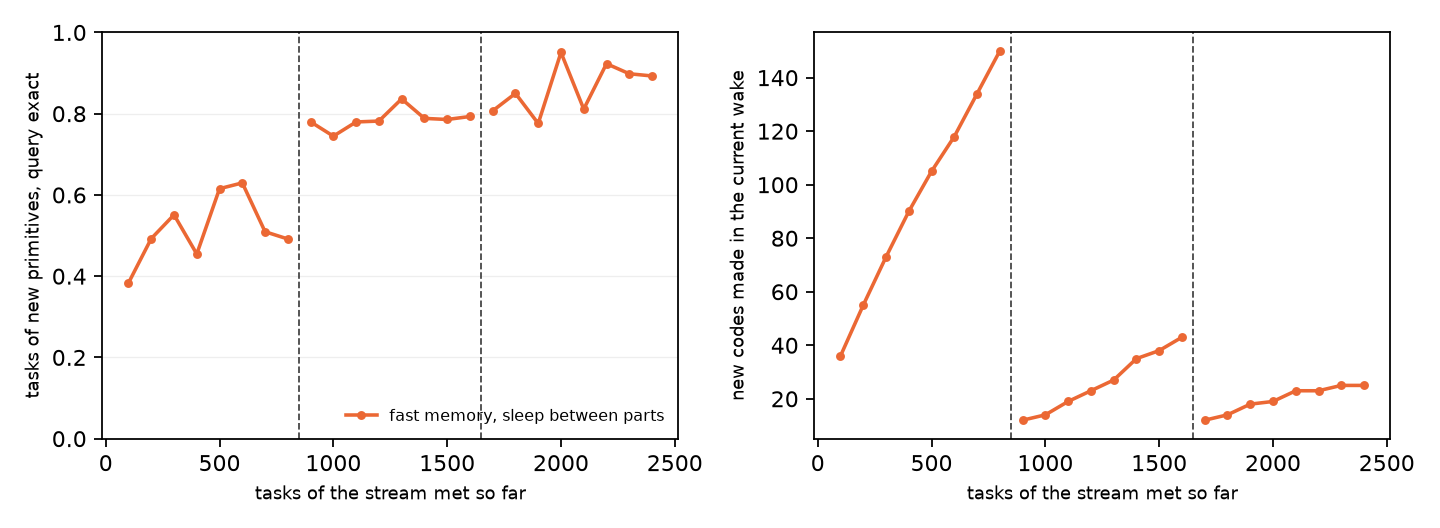
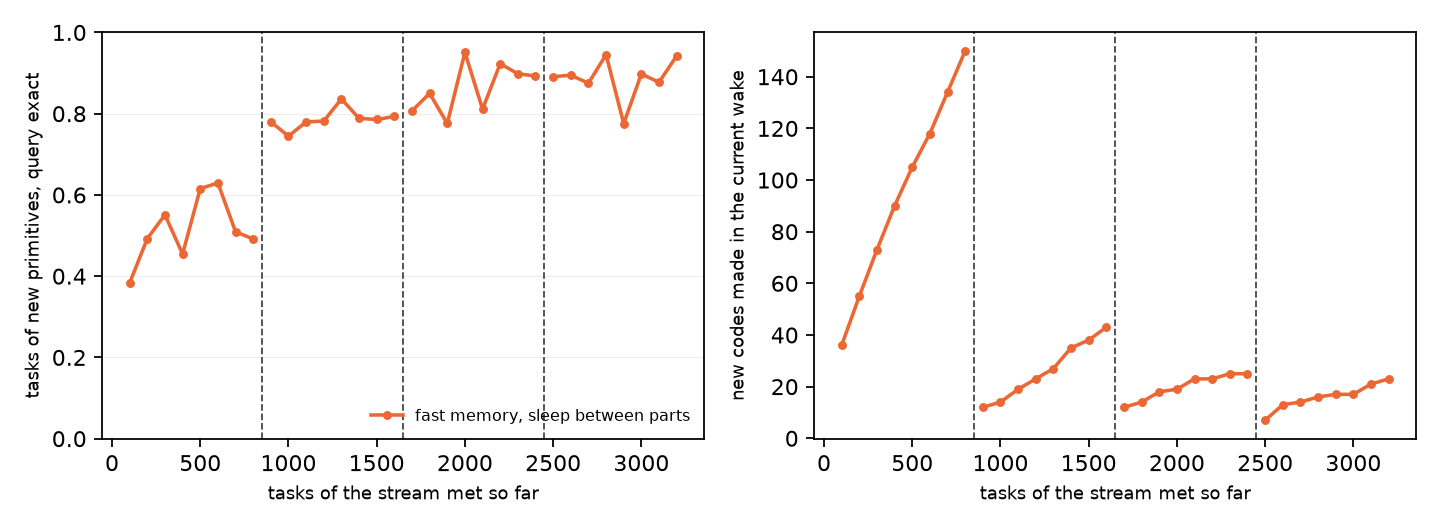
Four rounds of waking and sleeping, unit-length diagnostic, large-world rounds set up, report and handoff

diff --git a/scripts/babytheorist/make_configs.py b/scripts/babytheorist/make_configs.py
@@ -903,6 +903,24 @@ def main() -> None:
         config["evals"].append({"type": "codebook_snapshot", "name": "snapshot", "every": 100, "split": "lv1", "max_tasks": 1024, "max_samples": 4000})
         config["evals"].append({"type": "codebook_snapshot", "name": "snapshot_usual", "every": 500, "split": "usual", "max_tasks": 1024, "max_samples": 4000})
         configs[f"sleep_memory_m24_to_m52_s{seed}"] = config
+    # the rounds of waking and sleeping in the sibling world of larger objects (2026-11-27 19:40): the same 24 primitives, so no
+    # new code row is needed. The frozen price model of seed 43 meets 400 single-primitive tasks of the large-object eval (it holds 1,088)
+    # file with the same online fast memory; the tasks none of its codes reproduced go into the sleep (2,000 steps of hard
+    # EM, half of each batch replaying the usual world), scored on the large-object eval file without the stream's rows and
+    # on the usual world. A second round continues from the first on the memory of both wakes (1,000 steps). Earlier, 256
+    # random large tasks with replay gave 72% from 59% (adapt_n256_replay_m24_large_s43).
+    for tag, steps, start, memory, unstreamed in (("sleep", 2000, "runs/onestep_s_m24_hardem_pairs2_price_s43/ckpt/step-024000.pt", "memory_large_s43_rep", "many_p24_large_unstreamed"),
+                                                   ("sleep2", 1000, "runs/sleep_large_m24_s43/ckpt/step-002000.pt", "memory_large_round2_s43_rep", "many_p24_large_unstreamed800")):
+        config = one_step(43, steps=steps, codes=48, changes={**hard_em, "train.init_from": start, "train.ckpt_every": steps}, data=suite("many_p24"))
+        config["data"]["type"] = "babytheorist_episodes"
+        config["data"]["train"] = [f"{DATA}/{memory}/lv1_train.h5", f"{DATA}/many_p24_pairs2/lv1_train.h5"]
+        config["data"]["evals"] = {"lv1": f"{DATA}/{unstreamed}/lv1_eval.h5", "usual": f"{DATA}/many_p24/lv1_eval.h5"}
+        config["evals"][0]["tables"] = True
+        config["evals"][0]["every"] = 500
+        config["evals"][1]["every"] = steps
+        config["evals"].append({"type": "codebook_snapshot", "name": "snapshot", "every": 100, "split": "lv1", "max_tasks": 1024, "max_samples": 4000})
+        config["evals"].append({"type": "codebook_snapshot", "name": "snapshot_usual", "every": 500, "split": "usual", "max_tasks": 1024, "max_samples": 4000})
+        configs[f"{tag}_large_m24_s43"] = config
     # the control for what the fast memory chose (2026-11-27 17:15): the same sleep from fresh rows on 435 tasks drawn at
     # random from the 52-primitive two-pair train file (seed 0, repeated to 40,000 rows), instead of the 435 tasks the
     # memory kept because no code of the frozen model reproduced them.

diff --git a/scripts/babytheorist/grow_checkpoint.py b/scripts/babytheorist/grow_checkpoint.py
@@ -32,8 +32,9 @@ def sphere_refit(model, state: dict, saved: dict, chosen: list[int], steps: int)
     import h5py
     import torch.nn.functional as F
 
+    device = torch.device("cuda" if torch.cuda.is_available() else "cpu")
     model.load_state_dict(state)
-    model.eval()
+    model.to(device).eval()
     for p in model.parameters():
         p.requires_grad_(False)
     with h5py.File(saved["eval"], "r") as f:
@@ -41,10 +42,10 @@ def sphere_refit(model, state: dict, saved: dict, chosen: list[int], steps: int)
     out, kept, total = [], 0, 0
     for j in chosen:
         rows = saved["memory_rows"][j]
-        x, y = inputs[rows][:, :2].flatten(0, 1), outputs[rows][:, :2].flatten(0, 1)
+        x, y = inputs[rows][:, :2].flatten(0, 1).to(device), outputs[rows][:, :2].flatten(0, 1).to(device)
         with torch.no_grad():
             state_x = model.encoder(x)
-        v = saved["vectors"][j].clone().requires_grad_(True)
+        v = saved["vectors"][j].clone().to(device).requires_grad_(True)
         opt = torch.optim.Adam([v], lr=0.05)
         for _ in range(steps):
             opt.zero_grad()
@@ -55,7 +56,7 @@ def sphere_refit(model, state: dict, saved: dict, chosen: list[int], steps: int)
         with torch.no_grad():
             done = model.decoder(model.executor(state_x, unit.expand(len(x), -1)[:, None])).argmax(-1).eq(y).flatten(1).all(1).view(-1, 2).all(1)
         kept, total = kept + int(done.sum()), total + len(rows)
-        out.append(unit)
+        out.append(unit.cpu())
     print(f"unit-vector refit: {kept} of {total} memory tasks reproduced by the placed codes")
     return torch.stack(out)
 

diff --git a/docs/reports/2026-11-27-autoresearch.md b/docs/reports/2026-11-27-autoresearch.md
@@ -1,4 +1,4 @@
-# 굳는 code를 푸는 법과 아는 것 위에 쌓기: 11월 27일의 실험
+# 아는 것 위에 쌓기: 빠른 기억과 잠, 넓힌 학습 state, 그리고 굳는 code. 11월 27일의 실험
 
 2026-11-27 Claude Code가 썼다. 자율 연구 중에 결과가 나오는 대로 고친다. 숫자는 모두 직접 돌려 잰 것이고, 근거 파일과 비교 조건은 `docs/ablations.md`에 있다.
 
@@ -8,7 +8,9 @@
 
 다른 하나는 사용자가 던진 방향의 질문이다. 무작위로 초기화한 모델이 라벨 없이 code를 세우는 문제에 매달릴 필요가 있느냐는 것이다. 사람도 빈 상태에서 배우지 않는다. 아는 것은 넣어 주고, 작은 환경에서는 정답을 보여 준 뒤, 그보다 크거나 비슷한 환경에서 빨리 배우는지를 보이면 된다. 연구가 보이려는 성질이 아는 것이 많아질수록 새것을 더 싸게 배우는 것이니, 이쪽이 그 성질을 더 직접 잰다.
 
-결과를 먼저 말하면, 첫 질문은 절반쯤 풀렸다. 학습 초반에 과하게 쓰인 code에 가격을 붙여 과제를 여러 code로 퍼뜨리고 나중에 가격을 거두면, 굳던 seed 43과 44가 갈라졌다. 하지만 seed 45와 46에서는 오히려 덜 갈라졌다. 가격이 executor가 넷을 구별하기 전에 사라진 탓으로 보고, 가격을 더 오래 두는 형태를 시험하고 있다. 둘째 질문에 대해서는 두 가지 작은 판을 만들었다. 24개 환경 모델을 52개 환경으로 키우는 것과, 같은 primitive를 큰 물체에 적용한 비슷한 세계로 옮기는 것이다. 둘 다 아는 것에서 출발한 모델이 처음부터 배우는 모델보다 훨씬 빨랐다.
+결과를 먼저 말하면, 첫 질문은 절반쯤 풀렸다. 학습 초반에 과하게 쓰인 code에 가격을 붙여 과제를 여러 code로 퍼뜨리고 나중에 가격을 거두면, 굳던 seed 43과 44가 갈라졌고 52개 환경에서는 세 seed가 모두 풀렸다. 하지만 24개 환경의 seed 45와 46에서는 오히려 덜 갈라졌다. 가격을 재현 적합도로 거두는 형태가 이 두 seed를 올렸지만 아직 다 풀지는 못했다.
+
+둘째 질문에서 더 많은 것이 나왔다. 세 가지다. 학습 때 보는 state를 넓히면 executor가 학습 분포 밖에서도 같은 변환을 실행하게 되고, 긴 program과 큰 물체 세계로의 전이가 함께 오른다. 24개 환경 모델을 52개 환경으로 키우면 초반은 빠르지만 끝 성능과 처음 보는 primitive로의 일반화는 처음부터 배운 쪽이 낫다. 그리고 이날의 중심 결과로, 얼린 모델에 빠른 기억을 붙이고 잠을 번갈아 넣으면 새 과제가 바퀴마다 더 싸게 풀린다. 깨어 있는 동안에는 가중치를 바꾸지 않고 새 code를 기억에 만들어 쓰고, 자기 code로 풀리지 않은 과제를 모은다. 잠에서 그 과제로 가중치를 고친다. 새 primitive 과제의 정답률이 자기 전 51%, 한 번 잔 뒤 79%, 두 번 잔 뒤 86%이고, 깨어 있는 동안 새로 만들어야 하는 code는 150개, 43개, 25개로 준다. 원래 알던 것은 내내 99% 이상이다.
 
 ## 2. code는 왜 굳는가
 
@@ -228,7 +230,7 @@ executor가 함수에 가까워지자 긴 program의 상한도 올랐다. 24개 
 
 이 결과에서 두 가지를 읽는다. 하나는 빠른 기억과 이어 쓰기만으로, 라벨 없이, 가중치를 바꾸지 않고, 계산할 수 있는 새 개념을 예시 몇 개로 붙일 수 있다는 것이다. 6절의 큰 물체 세계에서는 가중치를 고쳐 적응하면 과제 256개로도 오히려 나빠졌다. 세계가 달라 숫자를 직접 견줄 수는 없지만, 적은 예시에서 가중치를 건드리지 않는 쪽이 안전하다는 점은 같다. 다른 하나는 이 방식의 한계가 executor가 이미 할 줄 아는 계산에 있다는 것이다. 새 계산이 필요한 개념에 대해 빠른 기억은 실패한 code를 쌓을 뿐이다. 그 과제들은 기억에 남아 있으므로, 잠에서 executor를 바꾸는 재료가 될 수 있다.
 
-맞춘 새 code의 길이도 보았다. codebook은 code를 길이 1로 정규화해 읽는데, 빠른 기억의 code는 길이를 묶지 않고 맞춰서 1.1에서 4.1, 평균 2.1이었다. 이 벡터를 길이 1로 정규화하면 기억 과제 327개 가운데 2개만 재현한다. 정규화 전에는 325개다. 길이 1로 묶은 채 원래 방향에서 다시 맞추면 156개다. 빠른 기억은 학습 때 쓰지 않은 길이를 표현력으로 쓰고 있었고, codebook에 그대로 옮길 수는 없다.
+맞춘 새 code의 길이도 보았다. codebook은 code를 길이 1로 정규화해 읽는데, 빠른 기억의 code는 길이를 묶지 않고 맞춰서 1.1에서 4.1, 평균 2.1이었다. 이 벡터를 길이 1로 정규화하면 기억 과제 327개 가운데 2개만 재현한다. 정규화 전에는 325개다. 길이 1로 묶은 채 원래 방향에서 다시 맞추면 156개다. 빠른 기억은 학습 때 쓰지 않은 길이를 표현력으로 쓰고 있었고, codebook에 그대로 옮길 수는 없다. 길이가 기억을 외우는 데만 쓰인 것인지 보려고 8.2절의 진단을 길이 1로 묶어 다시 돌렸다. 새 primitive 평균이 예시 1, 2, 4, 16, 64개에 15, 23, 33, 44, 45%로, 묶지 않았을 때의 15, 33, 47, 56, 56%보다 10점 넘게 낮다. 길이는 처음 보는 과제에서도 통하는 자유도다. executor는 학습 때 길이 1인 code만 받았는데도 길이가 다른 code에서 쓸모 있는 변환을 낸다. codebook이 code의 길이를 버리는 것이 손해일 수 있다는 뜻이고, 따로 확인할 물음이다.
 
 ### 8.4 잠에서 가중치로 옮기기
 
@@ -255,7 +257,7 @@ executor가 함수에 가까워지자 긴 program의 상한도 올랐다. 24개 
 
 빠른 기억과 잠을 이으면 한 바퀴가 된다. 깨어 있는 동안 얼린 모델이 빠른 기억으로 과제를 받고, 자기 code로 풀리지 않은 과제를 기억에 모은다. 잠에서 그 기억으로 가중치를 고친다. 다시 깨면 고친 모델을 얼리고 같은 방식으로 다음 과제를 받는다. 연구가 보이려는 성질, 곧 아는 것이 많아질수록 새 과제를 더 싸게 배운다는 것을 이 바퀴로 직접 잴 수 있다. 다시 깬 모델이 같은 종류의 과제를 더 잘 풀고, 새 code를 덜 만들어야 한다.
 
-이것을 세 번 이어서 돌렸다. 흐름은 52개 환경의 한 단계 과제를 정한 순서로 800개씩 끊은 것이다. 첫 번째 깨어 있는 동안은 24개 환경 모델이 과제 1에서 800을 받는다. 첫 잠은 8.4절의 무작위 줄 출발 잠이다. 두 번째는 그 모델이 과제 801에서 1,600을 받고, 둘째 잠은 두 번의 기억을 합친 569개로 1,000스텝 이어 잔다. 세 번째는 과제 1,601에서 2,400을 받는다. 구간마다 과제는 다르지만 같은 primitive들에서 같은 방식으로 뽑힌 과제다.
+이것을 네 번 이어서 돌렸다. 흐름은 52개 환경의 한 단계 과제를 정한 순서로 800개씩 끊은 것이다. 첫 번째 깨어 있는 동안은 24개 환경 모델이 과제 1에서 800을 받는다. 첫 잠은 8.4절의 무작위 줄 출발 잠이다. 두 번째는 그 모델이 과제 801에서 1,600을 받고, 둘째 잠은 두 번의 기억을 합친 569개로 1,000스텝 이어 잔다. 세 번째는 과제 1,601에서 2,400을 받는다. 셋째 잠과 네 번째 구간도 같은 방식이다. 구간마다 과제는 다르지만 같은 primitive들에서 같은 방식으로 뽑힌 과제다.
 
 ![깨기와 잠을 번갈아 할 때, 새 primitive 과제의 정답률과 새로 만든 code 수](2026-11-27-memory/cycle.png)
 
@@ -264,8 +266,9 @@ executor가 함수에 가까워지자 긴 program의 상한도 올랐다. 24개 
 | 첫 번째, 자기 전 | 51% | 71% | 19% | 99% | 150개 | 3% |
 | 두 번째, 한 번 잔 뒤 | 79% | 86% | 60% | 100% | 43개 | 69% |
 | 세 번째, 두 번 잔 뒤 | 86% | 90% | 76% | 99.7% | 25개 | 75% |
+| 네 번째, 세 번 잔 뒤 | 89% | 91% | 85% | 100% | 23개 | 79% |
 
-바퀴가 돌 때마다 새 과제가 더 잘 풀리고, 빠른 기억이 새로 할당해야 하는 code가 줄어든다. 가장 크게 오르는 것은 새 계산이 필요한 개념이다. 깨어 있는 동안에는 풀지 못하고 기억에 쌓이기만 하던 과제가 잠에서 executor를 바꾸고, 다음에 깨면 자기 code로 풀린다. 둘째 깨어 있는 동안 기억에 더해진 과제 134개는 대부분 아직 덜 배운 개념의 과제였고, 둘째 잠 뒤에 왼쪽 거울상 붙이기는 29%에서 87%, 두 배 확대는 43%에서 82%가 됐다. 기억이 무엇을 담을지를 검증 실패로 정하니, 잠은 모델이 아직 못 하는 것에 학습을 모은다. 아는 24개는 세 번 모두 99% 이상으로, 재생이 원래 지식을 지켰다.
+바퀴가 돌 때마다 새 과제가 더 잘 풀리고, 빠른 기억이 새로 할당해야 하는 code가 줄어든다. 오르는 폭은 바퀴마다 줄어 28점, 7점, 3점이다. 처음에 크게 오르고 완만해지는 모양이다. 가장 크게 오르는 것은 새 계산이 필요한 개념이다. 깨어 있는 동안에는 풀지 못하고 기억에 쌓이기만 하던 과제가 잠에서 executor를 바꾸고, 다음에 깨면 자기 code로 풀린다. 둘째 깨어 있는 동안 기억에 더해진 과제 134개는 대부분 아직 덜 배운 개념의 과제였고, 둘째 잠 뒤에 왼쪽 거울상 붙이기는 29%에서 87%, 두 배 확대는 43%에서 82%가 됐다. 기억이 무엇을 담을지를 검증 실패로 정하니, 잠은 모델이 아직 못 하는 것에 학습을 모은다. 아는 24개는 네 번 모두 99% 이상으로, 재생이 원래 지식을 지켰다.
 
 잠을 잔 뒤에도 빠른 기억은 값을 더한다. 한 번 잔 모델이 탐색 없이 고른 code로는 계산할 수 있는 새것을 81% 맞히는데, 깨어서 support로 검증하고 빠른 기억으로 보충하면 86%다.
 
@@ -273,7 +276,9 @@ executor가 함수에 가까워지자 긴 program의 상한도 올랐다. 24개 
 
 기억이 고르는 것의 값은 대조 run으로 쟀다. 52개 환경 학습 파일에서 무작위로 뽑은 과제 435개로 같은 잠을 자면, 1,000스텝에 계산할 수 있는 새것 64%, 새 계산이 필요한 새것 51%다. 기억이 고른 435개로는 81%와 56%였다. 무작위 435개의 절반쯤은 이미 아는 primitive의 과제라 배울 것이 없다. 검증에 실패한 과제만 담는다는 규칙이 같은 과제 수에서 더 많이 배우게 한다.
 
-남은 비교가 있다. 구간마다 과제가 다르므로, 한 번도 자지 않은 모델이 같은 과제 801에서 2,400을 빠른 기억만으로 받은 값과 견줘야 잠의 몫이 정확히 나온다. 그 run은 과제 1,200까지 왔고 801에서 1,200 사이의 새 primitive 정답률은 56, 57, 68, 62%다. 같은 구간에서 한 번 잔 모델은 78, 75, 78, 78%다. 같은 세 바퀴를 seed 42와 44로도 돌리고 있다.
+구간마다 과제가 다르므로, 잠의 몫은 한 번도 자지 않은 모델이 같은 과제를 빠른 기억만으로 받은 값과 견줘야 한다. 그림의 회색 선이다. 과제 801에서 1,600에서 자지 않은 모델은 새 primitive를 평균 62% 맞히고 새 code 91개를 만든다. 한 번 잔 모델은 같은 과제에서 79%에 43개다. 같은 과제에서 잠의 몫이 17점이다. 자지 않아도 기억이 쌓이며 51%에서 62%로 오르기는 하지만, 새 계산이 필요한 개념이 막혀 있어 거기서 멈춘다.
+
+같은 바퀴를 seed 42와 44의 모델로, 그리고 큰 물체 세계에서도 돌리고 있다.
 
 ## 9. 계산 효율
 
@@ -281,4 +286,18 @@ hard EM 한 스텝의 시간은 대부분 E-step에 든다. 과제마다 codeboo
 
 ## 10. 한계와 다음 일
 
-진행 중이다.
+이날의 결과가 말하지 않는 것부터 적는다.
+
+빠른 기억이 예시 몇 개로 붙이는 것은 executor가 이미 할 줄 아는 계산의 조합뿐이다. 새 계산이 필요한 개념은 잠을 거쳐야 하고, primitive마다 예시 15개쯤으로 한 번 자면 60%, 한 번 더 깨고 자면 71%다. 사람이 거울상 붙이기를 두세 번 보고 하는 것과는 거리가 멀다. 이 거리를 줄이려면 새 계산을 더 작은 계산의 조합으로 표현할 수 있어야 한다. 지금의 primitive는 물체 하나를 한 번에 바꾸는 것이라, 복사해서 뒤집어 옆에 붙이는 식의 조합을 program으로 쓸 수 없다.
+
+깨기와 잠의 세 바퀴는 seed 하나의 결과다. seed 42와 44로 같은 바퀴를 돌리고 있다. 바퀴 사이의 비교는 과제가 다른 구간끼리의 비교이고, 자지 않은 모델이 같은 구간을 받은 값은 일부만 나왔다.
+
+잠은 원래 환경의 학습 파일을 재생해 원래 지식을 지킨다. 원래 환경의 데이터를 다 들고 있다는 가정이다. 데이터 없이 지키려면 모델이 자기 code로 만든 꿈을 재생해야 하고, 11월 24일의 꿈 학습이 그 재료가 될 수 있지만 아직 잇지 않았다.
+
+code 형성은 다 풀리지 않았다. 적합도 가격이 어려운 두 seed를 66%와 77%까지 올렸지만 좋은 seed의 96%와는 거리가 있다. 큰 환경에서 세 seed가 다 풀린 것이 환경 크기 덕인지는 가르지 못했다.
+
+환경을 키우면 먼저 배운 개념의 경계가 새 개념을 나누는 방식을 묶는다. 이어 배운 모델은 학습에 없던 4칸 이동을 28에서 45%만 맞히고, 처음부터 배운 모델은 85에서 97%를 맞힌다. 아는 것 위에 쌓는 것이 늘 이득은 아니고, 먼저 배운 것이 나중 배움을 가로막는 경우가 있다는 뜻이다. 잠에서 기존 code를 다시 나누는 단계가 필요할 수 있다.
+
+모든 실험이 물체 하나를 한 단계 바꾸는 과제에서 나왔다. 사용자가 말한 만족할 결과는 현실 규모의 두 환경과 에이전트다. 이날의 바퀴는 그 축소판의 틀을 준다. 환경이 과제를 하나씩 주고, 모델이 검증으로 아는 것과 모르는 것을 가르고, 모르는 것을 기억에 모아 잠에서 배운다. 이 틀은 환경을 몰라도 쓸 수 있는 규칙으로만 되어 있다.
+
+다음에 할 일은 이 순서로 본다. 첫째, 세 바퀴를 seed 셋과 자지 않는 대조로 굳힌다. 둘째, 같은 바퀴를 여러 단계 program 과제로 넓힌다. 지금의 검증은 code 하나만 시도하고, 여러 단계에서는 11월 23일의 support 검증 탐색이 그 자리에 들어간다. 셋째, 재생을 데이터 대신 꿈으로 바꾼다. 넷째, code의 길이를 codebook이 쓰게 하면 code 하나로 붙는 개념의 범위가 넓어지는지 본다.

diff --git a/docs/research-log.md b/docs/research-log.md
@@ -348,3 +348,12 @@
 - 18:56 무작위 과제 435개로 자는 대조 run, 1,300스텝. 원래 24개 98%, 계산할 수 있는 새것 69%, 새 계산이 필요한 새것 51%, 4칸 이동 19%다. 기억이 고른 435개로 잔 run은 1,000스텝에 81%, 56%, 72%였다. 무작위 435개는 절반쯤이 이미 아는 primitive의 과제이고 4칸 이동은 학습 파일에 없다. 검증에 실패한 과제만 담는 선택이 같은 과제 수에서 계산할 수 있는 개념을 12점쯤 올린다.
 - 19:00 셋째 깨기가 끝났다. 과제 1,601에서 2,400, 새 primitive 정답률이 구간마다 81, 85, 78, 95, 81, 92, 90, 89%, 전체 86%, 새 code 25개다. 계산할 수 있는 새것 90%, 새 계산이 필요한 새것 76%, 4칸 이동 95%, 아는 것 99.7%다. 세 번의 깨기를 나란히 놓으면 새 primitive 전체가 51%, 79%, 86%, 새 code가 150개, 43개, 25개, 자기 code가 검증을 통과해 답한 비율이 3%, 69%, 75%다. 그림은 docs/reports/2026-11-27-memory/cycle.png다.
 - 19:00 셋째 잠을 띄웠다. 세 번의 깨어 있는 동안 모인 기억으로 둘째 잠을 잔 모델에서 1,000스텝 이어 잔다. 끝나면 2,401번째부터 받는다.
+- 19:00 새 code를 길이 1로 묶어 맞춘 진단이 끝났다. 새 primitive 평균이 예시 1, 2, 4, 16, 64개에 15, 23, 33, 44, 45%다. 길이를 묶지 않으면 15, 33, 47, 56, 56%였다. 길이를 풀어 주면 처음 보는 과제에서도 10점 넘게 높다. 길이는 기억 과제를 외우는 데만 쓰인 것이 아니라 일반화하는 자유도다. 얼린 executor는 학습 때 길이 1인 code만 받았는데도 길이가 다른 code에서 쓸모 있는 변환을 낸다.
+- 19:00 키우기 seed 43이 24,000스텝을 마쳤다.
+- 19:19 자지 않은 모델이 같은 과제 801에서 1,600을 빠른 기억만으로 받은 값. 새 primitive 정답률이 구간마다 56, 57, 68, 62, 75, 60, 57, 66%, 평균 62%이고 이 구간에서 새 code 91개를 만들었다. 한 번 잔 모델은 같은 과제에서 78, 75, 78, 78, 84, 79, 79, 79%, 평균 79%에 43개다. 같은 과제에서 잠의 몫은 17점이다. 자지 않아도 기억이 쌓이며 첫 800개의 51%에서 62%로 오르기는 한다.
+- 19:19 seed 42와 44의 첫 깨기. 새 primitive 정답률이 seed 42는 40, 54, 55, 64, 58, 65, 66, 58%에 새 code 135개, seed 44는 37, 34, 37, 49, 48, 57, 42%대다. 기억 과제는 둘 다 434개다. 잠 출발점을 만들고 있다.
+- 19:30 seed 42와 44의 잠 출발점 만들기, 곧 기억 code를 길이 1로 다시 맞추는 단계가 CPU에서 20분 넘게 걸렸다. 서버 부하 평균이 270대였다. 이 단계를 GPU에서 돌게 고치고 두 seed의 나머지 순서를 다시 띄웠다.
+- 19:30 셋째 잠 1,000스텝 뒤, 흐름의 2,400개를 뺀 평가에서 원래 24개 99%, 계산할 수 있는 새것 86%, 새 계산이 필요한 새것 75%, 4칸 이동 73%다. 둘째 잠 뒤는 98%, 82%, 71%, 76%였다. 넷째 깨기의 앞 300개에서 새 primitive 정답률이 89, 90, 88%, 새 code 14개다.
+- 19:30 무작위 과제 435개로 잔 대조 run의 최종. 원래 24개 99%, 계산할 수 있는 새것 68%, 새 계산이 필요한 새것 46%, 4칸 이동 18%다. 기억이 고른 435개로 잔 무작위 줄 출발 run은 99%, 81%, 58%, 77%다.
+- 19:35 넷째 깨기가 끝났다. 과제 2,401에서 3,200, 새 primitive 정답률이 구간마다 89, 90, 88, 95, 78, 90, 88, 94%, 전체 89%, 새 code 23개다. 계산할 수 있는 새것 91%, 새 계산이 필요한 새것 85%, 4칸 이동 91%, 아는 것 100%다. 네 구간의 새 primitive 전체가 51%, 79%, 86%, 89%로 오르며 완만해진다.
+- 19:35 같은 바퀴를 큰 물체 세계에서 돌린다. 24개 환경 가격 seed 43 모델이 큰 물체 평가 파일의 한 단계 과제를 400개씩 받는다. 이 파일의 한 단계 과제는 1,088개뿐이라 구간을 400개로 잡았다. 같은 primitive라 codebook은 키우지 않는다. 순서는 runs/queue/cycle_large.sh에 있다.

diff --git a/docs/HANDOFF.md b/docs/HANDOFF.md
@@ -1,5 +1,18 @@
 # 인수인계
 
+## 2026-11-27 밤, 빠른 기억과 잠의 바퀴를 돌린 뒤의 상태
+
+Claude Code가 썼다. 이날의 이야기와 그림은 `docs/reports/2026-11-27-autoresearch.md`에, 비교마다의 숫자는 `docs/ablations.md`에, 시각별 기록은 `docs/research-log.md`에 있다. 사용자가 11월 27일에 정한 방향은 무작위 초기화에서 code를 세우는 문제에 매달리지 말고, 아는 것 위에 새것이 싸게 붙는지를 보이는 것이다.
+
+- 중심 결과. 얼린 모델이 과제를 하나씩 받으며 빠른 기억에 새 code를 만들어 쓰고, 자기 code로 풀리지 않은 과제를 모았다가 잠에서 가중치로 옮긴다. 24개 환경 가격 seed 43 모델이 52개 환경의 한 단계 과제를 800개씩 받을 때, 새 primitive 정답률이 자기 전 51%, 한 번 잔 뒤 79%, 두 번 잔 뒤 86%이고 새로 만드는 code는 150개, 43개, 25개다. 아는 24개는 내내 99% 이상이다. 도구는 `scripts/babytheorist/memory_online.py`, `memory_sleep_data.py`, `grow_checkpoint.py --rows-from`, 설정은 `configs/babytheorist/sleep*_m24_to_m52_s*.yaml`, 그림 도구는 `memory_online_figure.py`, `sleep_curves.py`, `memory_cycle_figure.py`다.
+- 빠른 기억의 범위. code 벡터 하나로 붙는 것은 executor가 이미 할 줄 아는 계산의 조합, 곧 이동 거리만 다른 이동 같은 것이다. 앞서 3에서 8번 본 뒤 77에서 82%다. 거울상 붙이기, 확대처럼 새 계산이 필요한 개념은 11에서 22%이고 잠에서만 배운다. 할당 전에 기존 새 code를 다시 맞춰 이어 쓰는 단계가 있어야 code가 늘기만 하지 않는다. `docs/decisions.md`에 적었다.
+- 빠른 기억의 code는 길이가 1이 아니다. codebook은 길이 1로 정규화하므로 그대로 옮기면 기능을 잃는다. 길이를 묶어 맞추면 처음 보는 과제에서 10점 넘게 낮다. codebook이 길이를 쓰게 할지는 열린 물음이다.
+- 학습 state 넓히기. 생성기의 `--start-steps 4`로 학습 pair의 물체가 먼저 무작위 primitive를 0에서 4개 거치게 하면, 정답 code의 정확도가 다섯 단계 거친 물체에서 80%에서 97%, 큰 물체에서 62%에서 90%로 오른다. 긴 program의 상한과 꿈 학습 뒤의 탐색도 따라 오른다. 24개 환경 길이 5, 6, 7이 64%, 55%, 50%다.
+- code 형성. 가격 방식은 52개 환경 세 seed를 모두 풀었고, 24개 환경은 다섯 seed 가운데 셋이다. 재현 적합도로 가격을 거두는 `model.price_fit`이 어려운 두 seed를 올렸지만 다 풀지는 못했다.
+- 환경 키우기. 이어 배우면 초반이 두 배쯤 빠르지만 끝 성능과 학습에 없던 primitive로의 일반화는 처음부터 배운 쪽이 낫다.
+- 남은 일. 세 바퀴를 seed 42와 44로 확인하는 run과 자지 않는 대조 run이 이 글을 쓰는 시점에 돌고 있다. 결과는 연구 로그의 마지막 항목을 본다. 그다음은 같은 바퀴를 여러 단계 program 과제로 넓히는 것, 재생을 데이터 대신 꿈으로 바꾸는 것이다.
+- 원격 저장소로의 push는 이 세션의 권한 분류기가 막아 하지 못했다. 커밋은 로컬 `code/baseline-observation`에 있다.
+
 ## 2026-11-24 18:50, 최선을 갱신하는 자율 연구 중의 상태
 
 Claude Code가 썼다. 사용자가 24일에 정한 방식대로 최선을 하나 두고 그 약한 곳을 고치며 갱신한다. 지금의 최선과 약한 곳은 `docs/project-overview.md` 1.1절에, 이틀의 이야기는 `docs/reports/2026-11-24-two-days.md`와 그림이 든 `-page.html`에 있다.

diff --git a/docs/ablations.md b/docs/ablations.md
@@ -176,6 +176,11 @@ primitive마다 가장 자주 그 primitive를 재현한 code를 정답 code로 
 | 라벨 없이 과제를 하나씩 받는 온라인 기억 | 검증되면 그 code, 아니면 새 code 할당 | 가격 seed 43, 52개 환경 한 단계 과제 800개 | 새 code 290개. 100개 구간마다 새 primitive 40, 33, 41, 35, 56, 50, 45, 39%. 계산할 수 있는 15개가 앞서 3에서 8번 본 뒤 63에서 65% | 같은 primitive마다 code를 새로 만들어 늘기만 함 | 11-27 |
 | 할당 전에 이어 쓰기 | 검증 실패 시 손실 낮은 새 code 셋을 기억과 이 과제로 다시 맞춰, 이 과제와 기억 75% 이상을 재현하면 이어 씀 | 같음, 같은 순서 | 새 code 150개. 구간마다 38, 49, 55, 46, 62, 63, 51, 49%. 계산할 수 있는 15개가 앞서 3에서 8번 본 뒤 77에서 82%, code는 primitive마다 2.4개 대 6.8개 | 채택. 새 계산이 필요한 9개는 두 판 모두 11에서 22% | 11-27 |
 | 기억 code를 codebook으로 옮길 수 있는가 | 길이 1로 정규화, 길이 1로 묶어 다시 맞춤 | 이어 쓰기 판의 과제 둘 이상 담은 code 42개, 기억 과제 327개 | 재현 325개가 정규화하면 2개, 다시 맞추면 156개 | 빠른 기억은 길이를 표현력으로 씀. 그대로는 옮길 수 없음 | 11-27 |
+| 새 code의 길이를 1로 묶으면 | 길이 1로 묶어 맞춤 대 묶지 않음, 가장 잘 맞는 기존 code에서 출발 | 가격 seed 43, 새 primitive 24개 | 예시 1, 2, 4, 16, 64개에 15, 23, 33, 44, 45% 대 15, 33, 47, 56, 56% | 길이는 처음 보는 과제에서도 통하는 자유도 | 11-27 |
+| 학습 state를 넓힌 모델의 온라인 기억 | 이어 쓰기 판, 같은 순서 | 넓힌 학습 seed 43 | 계산할 수 있는 새것이 앞서 1, 2번 본 뒤 73%, 80%로 빨리 오르나 9번 이상 본 뒤 73%. 새 계산이 필요한 새것 25에서 31% | code 하나로 붙는 개념의 범위는 거의 같음 | 11-27 |
+| 기억을 잠에서 가중치로 | 기억 과제 435개와 24개 환경 재생으로 2,000스텝, 새 code 줄 무작위 대 기억 code | 가격 seed 43, 흐름을 뺀 평가 | 무작위 줄: 원래 24개 99%, 계산할 수 있는 새것 81%, 새 계산이 필요한 새것 58%. 기억 줄: 98%, 89%, 64%. 과제 8만 개로 키운 run 2,000스텝: 97%, 92%, 91% | 새 계산은 잠에서 배움. 기억 줄 출발이 계산할 수 있는 개념에서 8에서 10점 높음. 435개는 500스텝 뒤 더 오르지 않음 | 11-27 |
+| 기억이 고른 과제의 값 | 같은 잠을 52개 환경 학습 파일의 무작위 과제 435개로 | 같음, 무작위 줄 | 1,000스텝에 계산할 수 있는 새것 64%, 새 계산이 필요한 새것 51%. 기억이 고른 과제는 81%, 56% | 검증 실패로 고르면 같은 과제 수에서 더 배움 | 11-27 |
+| 깨기와 잠을 번갈아 | 과제 800개씩 세 구간, 구간 사이에 잠, 둘째 잠은 두 기억을 합쳐 1,000스텝 | 가격 seed 43, 무작위 줄 | 새 primitive 전체 51%, 79%, 86%. 새 계산이 필요한 새것 19%, 60%, 76%. 새 code 150개, 43개, 25개. 아는 24개 99% 이상 | 바퀴가 돌수록 새 과제가 싸짐. 자지 않은 모델의 같은 구간과 다른 seed는 진행 중 | 11-27 |
 
 ## 6. 지금의 최선이 어느 비교에서 나왔는가
 
